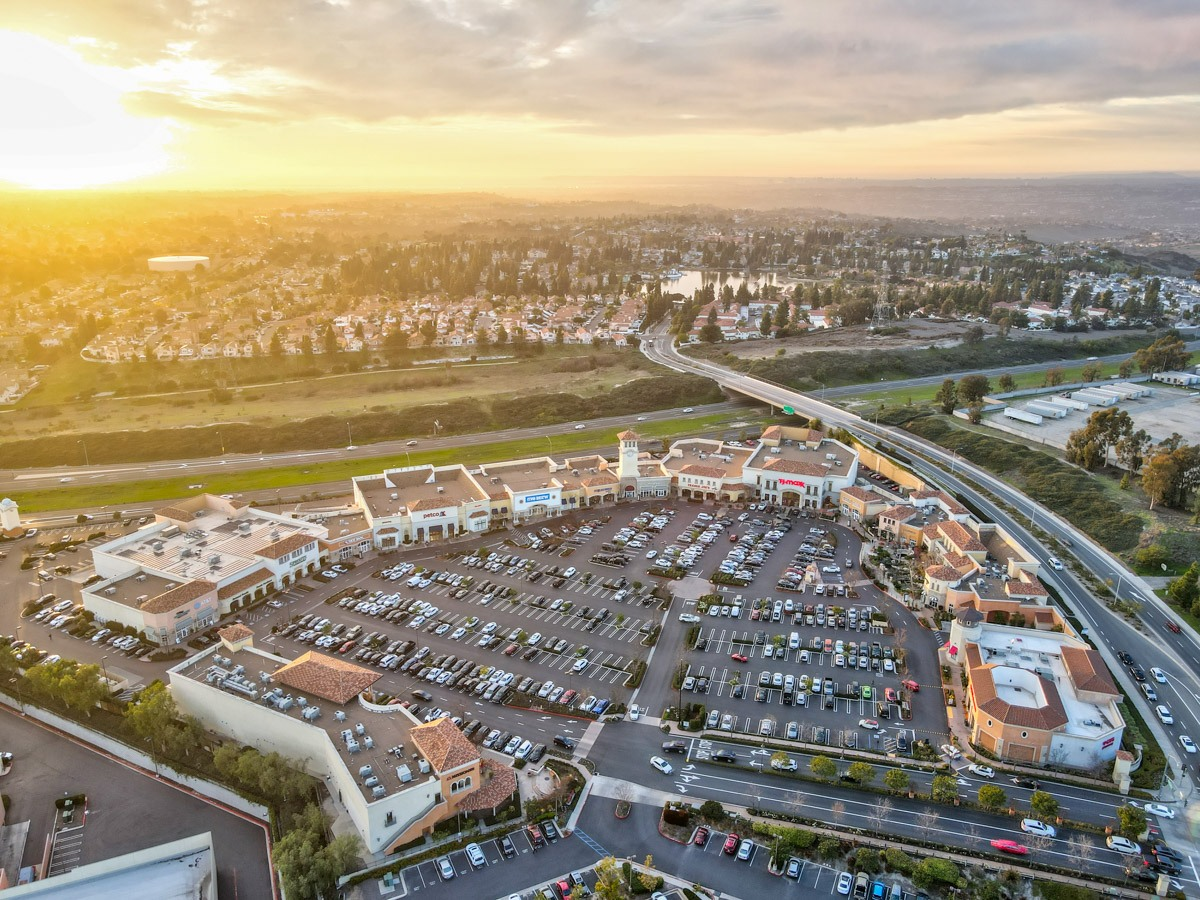
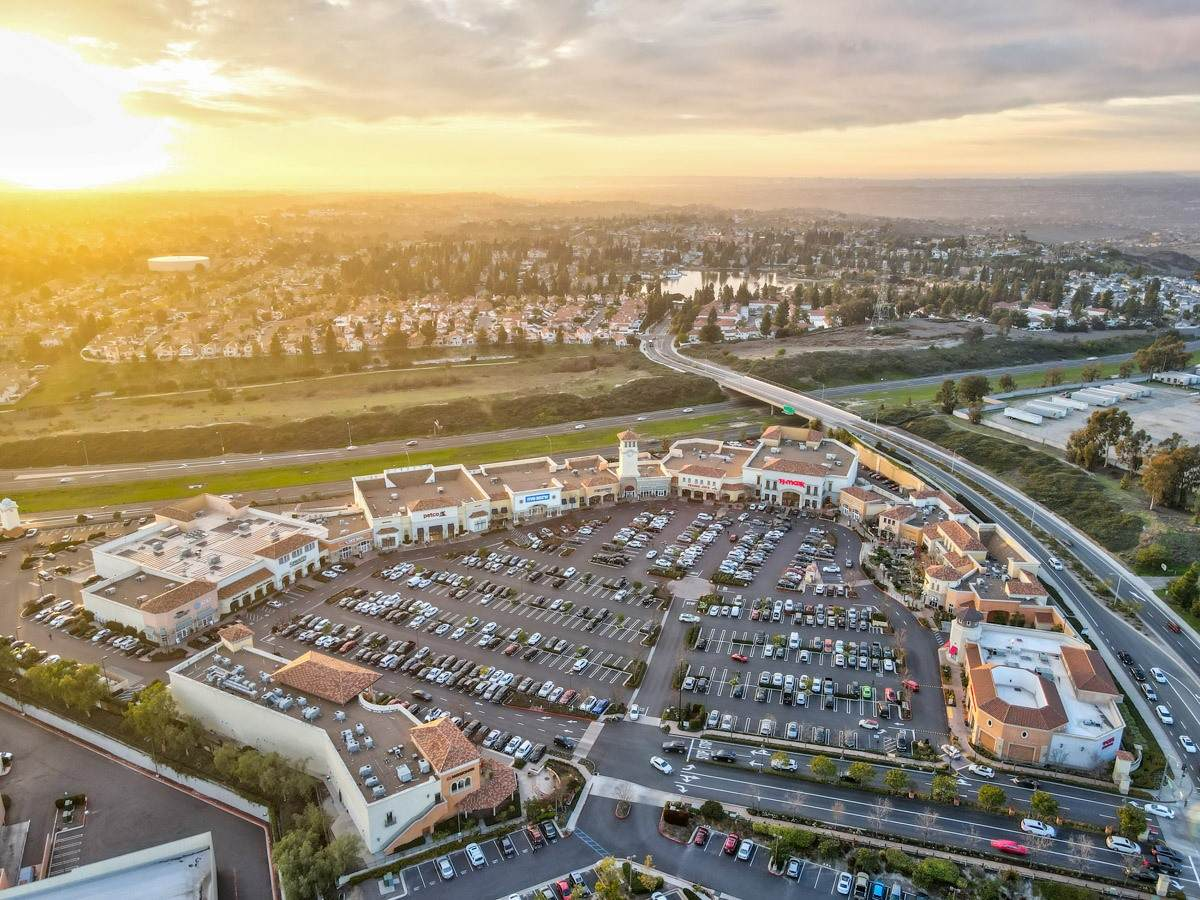
Ranker fixes: Home link in every footer, darker gold labels on light backgrounds, lighter step numbers, smaller Village Walk photo; CSS v=110

diff --git a/neighborhoods.html b/neighborhoods.html
@@ -18,7 +18,7 @@
   <link rel="preload" as="style" href="https://fonts.googleapis.com/css2?family=Inter:wght@300;400;500;600;700&family=Playfair+Display:ital,wght@0,400;0,500;0,600;1,400;1,500&display=swap">
   <link href="https://fonts.googleapis.com/css2?family=Inter:wght@300;400;500;600;700&family=Playfair+Display:ital,wght@0,400;0,500;0,600;1,400;1,500&display=swap" rel="stylesheet" media="print" onload="this.media='all'">
   <noscript><link href="https://fonts.googleapis.com/css2?family=Inter:wght@300;400;500;600;700&family=Playfair+Display:ital,wght@0,400;0,500;0,600;1,400;1,500&display=swap" rel="stylesheet"></noscript>
-  <link rel="stylesheet" href="/assets/css/styles.css?v=109">
+  <link rel="stylesheet" href="/assets/css/styles.css?v=110">
   <link rel="stylesheet" href="https://cdnjs.cloudflare.com/ajax/libs/leaflet/1.9.4/leaflet.min.css" media="print" onload="this.media='all'">
   <!-- Meta Pixel (dataset "Betty Torano Homes") and Google Analytics 4 (property "SellingEastlake.com").
        Both start recording right away; their scripts download after the page is up (first scroll/tap or 3.5 s after load). -->
@@ -691,6 +691,7 @@
       <div>
         <h3>Explore</h3>
         <ul>
+          <li><a href="/">Home</a></li>
           <li><a href="/buyers-guide">Buyer's Guide</a></li>
           <li><a href="/sellers-guide">Seller's Guide</a></li>
           <li><a href="/relocation-guide">Relocation Guide</a></li>

diff --git a/about.html b/about.html
@@ -18,7 +18,7 @@
   <link rel="preload" as="style" href="https://fonts.googleapis.com/css2?family=Inter:wght@300;400;500;600;700&family=Playfair+Display:ital,wght@0,400;0,500;0,600;1,400;1,500&display=swap">
   <link href="https://fonts.googleapis.com/css2?family=Inter:wght@300;400;500;600;700&family=Playfair+Display:ital,wght@0,400;0,500;0,600;1,400;1,500&display=swap" rel="stylesheet" media="print" onload="this.media='all'">
   <noscript><link href="https://fonts.googleapis.com/css2?family=Inter:wght@300;400;500;600;700&family=Playfair+Display:ital,wght@0,400;0,500;0,600;1,400;1,500&display=swap" rel="stylesheet"></noscript>
-  <link rel="stylesheet" href="/assets/css/styles.css?v=109">
+  <link rel="stylesheet" href="/assets/css/styles.css?v=110">
   <!-- Meta Pixel (dataset "Betty Torano Homes") and Google Analytics 4 (property "SellingEastlake.com").
        Both start recording right away; their scripts download after the page is up (first scroll/tap or 3.5 s after load). -->
   <script>
@@ -475,6 +475,7 @@
       <div>
         <h3>Explore</h3>
         <ul>
+          <li><a href="/">Home</a></li>
           <li><a href="/buyers-guide">Buyer's Guide</a></li>
           <li><a href="/sellers-guide">Seller's Guide</a></li>
           <li><a href="/relocation-guide">Relocation Guide</a></li>

diff --git a/blog.html b/blog.html
@@ -18,7 +18,7 @@
   <link rel="preload" as="style" href="https://fonts.googleapis.com/css2?family=Inter:wght@300;400;500;600;700&family=Playfair+Display:ital,wght@0,400;0,500;0,600;1,400;1,500&display=swap">
   <link href="https://fonts.googleapis.com/css2?family=Inter:wght@300;400;500;600;700&family=Playfair+Display:ital,wght@0,400;0,500;0,600;1,400;1,500&display=swap" rel="stylesheet" media="print" onload="this.media='all'">
   <noscript><link href="https://fonts.googleapis.com/css2?family=Inter:wght@300;400;500;600;700&family=Playfair+Display:ital,wght@0,400;0,500;0,600;1,400;1,500&display=swap" rel="stylesheet"></noscript>
-  <link rel="stylesheet" href="/assets/css/styles.css?v=109">
+  <link rel="stylesheet" href="/assets/css/styles.css?v=110">
   <!-- Meta Pixel (dataset "Betty Torano Homes") and Google Analytics 4 (property "SellingEastlake.com").
        Both start recording right away; their scripts download after the page is up (first scroll/tap or 3.5 s after load). -->
   <script>
@@ -392,6 +392,7 @@
       <div>
         <h3>Explore</h3>
         <ul>
+          <li><a href="/">Home</a></li>
           <li><a href="/buyers-guide">Buyer's Guide</a></li>
           <li><a href="/sellers-guide">Seller's Guide</a></li>
           <li><a href="/relocation-guide">Relocation Guide</a></li>

diff --git a/blog/camping-out-for-eastlake-homes.html b/blog/camping-out-for-eastlake-homes.html
@@ -18,7 +18,7 @@
   <link rel="preload" as="style" href="https://fonts.googleapis.com/css2?family=Inter:wght@300;400;500;600;700&family=Playfair+Display:ital,wght@0,400;0,500;0,600;1,400;1,500&display=swap">
   <link href="https://fonts.googleapis.com/css2?family=Inter:wght@300;400;500;600;700&family=Playfair+Display:ital,wght@0,400;0,500;0,600;1,400;1,500&display=swap" rel="stylesheet" media="print" onload="this.media='all'">
   <noscript><link href="https://fonts.googleapis.com/css2?family=Inter:wght@300;400;500;600;700&family=Playfair+Display:ital,wght@0,400;0,500;0,600;1,400;1,500&display=swap" rel="stylesheet"></noscript>
-  <link rel="stylesheet" href="/assets/css/styles.css?v=109">
+  <link rel="stylesheet" href="/assets/css/styles.css?v=110">
   <!-- Meta Pixel (dataset "Betty Torano Homes") and Google Analytics 4 (property "SellingEastlake.com").
        Both start recording right away; their scripts download after the page is up (first scroll/tap or 3.5 s after load). -->
   <script>
@@ -342,6 +342,7 @@
       <div>
         <h3>Explore</h3>
         <ul>
+          <li><a href="/">Home</a></li>
           <li><a href="/buyers-guide">Buyer's Guide</a></li>
           <li><a href="/sellers-guide">Seller's Guide</a></li>
           <li><a href="/relocation-guide">Relocation Guide</a></li>

diff --git a/blog/eastlake-before-the-125-freeway.html b/blog/eastlake-before-the-125-freeway.html
@@ -18,7 +18,7 @@
   <link rel="preload" as="style" href="https://fonts.googleapis.com/css2?family=Inter:wght@300;400;500;600;700&family=Playfair+Display:ital,wght@0,400;0,500;0,600;1,400;1,500&display=swap">
   <link href="https://fonts.googleapis.com/css2?family=Inter:wght@300;400;500;600;700&family=Playfair+Display:ital,wght@0,400;0,500;0,600;1,400;1,500&display=swap" rel="stylesheet" media="print" onload="this.media='all'">
   <noscript><link href="https://fonts.googleapis.com/css2?family=Inter:wght@300;400;500;600;700&family=Playfair+Display:ital,wght@0,400;0,500;0,600;1,400;1,500&display=swap" rel="stylesheet"></noscript>
-  <link rel="stylesheet" href="/assets/css/styles.css?v=109">
+  <link rel="stylesheet" href="/assets/css/styles.css?v=110">
   <!-- Meta Pixel (dataset "Betty Torano Homes") and Google Analytics 4 (property "SellingEastlake.com").
        Both start recording right away; their scripts download after the page is up (first scroll/tap or 3.5 s after load). -->
   <script>
@@ -341,6 +341,7 @@
       <div>
         <h3>Explore</h3>
         <ul>
+          <li><a href="/">Home</a></li>
           <li><a href="/buyers-guide">Buyer's Guide</a></li>
           <li><a href="/sellers-guide">Seller's Guide</a></li>
           <li><a href="/relocation-guide">Relocation Guide</a></li>

diff --git a/blog/eastlake-hoas-and-amenities.html b/blog/eastlake-hoas-and-amenities.html
@@ -18,7 +18,7 @@
   <link rel="preload" as="style" href="https://fonts.googleapis.com/css2?family=Inter:wght@300;400;500;600;700&family=Playfair+Display:ital,wght@0,400;0,500;0,600;1,400;1,500&display=swap">
   <link href="https://fonts.googleapis.com/css2?family=Inter:wght@300;400;500;600;700&family=Playfair+Display:ital,wght@0,400;0,500;0,600;1,400;1,500&display=swap" rel="stylesheet" media="print" onload="this.media='all'">
   <noscript><link href="https://fonts.googleapis.com/css2?family=Inter:wght@300;400;500;600;700&family=Playfair+Display:ital,wght@0,400;0,500;0,600;1,400;1,500&display=swap" rel="stylesheet"></noscript>
-  <link rel="stylesheet" href="/assets/css/styles.css?v=109">
+  <link rel="stylesheet" href="/assets/css/styles.css?v=110">
   <!-- Meta Pixel (dataset "Betty Torano Homes") and Google Analytics 4 (property "SellingEastlake.com").
        Both start recording right away; their scripts download after the page is up (first scroll/tap or 3.5 s after load). -->
   <script>
@@ -413,6 +413,7 @@
       <div>
         <h3>Explore</h3>
         <ul>
+          <li><a href="/">Home</a></li>
           <li><a href="/buyers-guide">Buyer's Guide</a></li>
           <li><a href="/sellers-guide">Seller's Guide</a></li>
           <li><a href="/relocation-guide">Relocation Guide</a></li>

diff --git a/blog/eastlake-little-league-history.html b/blog/eastlake-little-league-history.html
@@ -18,7 +18,7 @@
   <link rel="preload" as="style" href="https://fonts.googleapis.com/css2?family=Inter:wght@300;400;500;600;700&family=Playfair+Display:ital,wght@0,400;0,500;0,600;1,400;1,500&display=swap">
   <link href="https://fonts.googleapis.com/css2?family=Inter:wght@300;400;500;600;700&family=Playfair+Display:ital,wght@0,400;0,500;0,600;1,400;1,500&display=swap" rel="stylesheet" media="print" onload="this.media='all'">
   <noscript><link href="https://fonts.googleapis.com/css2?family=Inter:wght@300;400;500;600;700&family=Playfair+Display:ital,wght@0,400;0,500;0,600;1,400;1,500&display=swap" rel="stylesheet"></noscript>
-  <link rel="stylesheet" href="/assets/css/styles.css?v=109">
+  <link rel="stylesheet" href="/assets/css/styles.css?v=110">
   <!-- Meta Pixel (dataset "Betty Torano Homes") and Google Analytics 4 (property "SellingEastlake.com").
        Both start recording right away; their scripts download after the page is up (first scroll/tap or 3.5 s after load). -->
   <script>
@@ -357,6 +357,7 @@
       <div>
         <h3>Explore</h3>
         <ul>
+          <li><a href="/">Home</a></li>
           <li><a href="/buyers-guide">Buyer's Guide</a></li>
           <li><a href="/sellers-guide">Seller's Guide</a></li>
           <li><a href="/relocation-guide">Relocation Guide</a></li>

diff --git a/blog/eastlake-neighborhoods-no-mello-roos.html b/blog/eastlake-neighborhoods-no-mello-roos.html
@@ -18,7 +18,7 @@
   <link rel="preload" as="style" href="https://fonts.googleapis.com/css2?family=Inter:wght@300;400;500;600;700&family=Playfair+Display:ital,wght@0,400;0,500;0,600;1,400;1,500&display=swap">
   <link href="https://fonts.googleapis.com/css2?family=Inter:wght@300;400;500;600;700&family=Playfair+Display:ital,wght@0,400;0,500;0,600;1,400;1,500&display=swap" rel="stylesheet" media="print" onload="this.media='all'">
   <noscript><link href="https://fonts.googleapis.com/css2?family=Inter:wght@300;400;500;600;700&family=Playfair+Display:ital,wght@0,400;0,500;0,600;1,400;1,500&display=swap" rel="stylesheet"></noscript>
-  <link rel="stylesheet" href="/assets/css/styles.css?v=109">
+  <link rel="stylesheet" href="/assets/css/styles.css?v=110">
   <!-- Meta Pixel (dataset "Betty Torano Homes") and Google Analytics 4 (property "SellingEastlake.com").
        Both start recording right away; their scripts download after the page is up (first scroll/tap or 3.5 s after load). -->
   <script>
@@ -372,6 +372,7 @@
       <div>
         <h3>Explore</h3>
         <ul>
+          <li><a href="/">Home</a></li>
           <li><a href="/buyers-guide">Buyer's Guide</a></li>
           <li><a href="/sellers-guide">Seller's Guide</a></li>
           <li><a href="/relocation-guide">Relocation Guide</a></li>

diff --git a/blog/eastlake-schools-history.html b/blog/eastlake-schools-history.html
@@ -18,7 +18,7 @@
   <link rel="preload" as="style" href="https://fonts.googleapis.com/css2?family=Inter:wght@300;400;500;600;700&family=Playfair+Display:ital,wght@0,400;0,500;0,600;1,400;1,500&display=swap">
   <link href="https://fonts.googleapis.com/css2?family=Inter:wght@300;400;500;600;700&family=Playfair+Display:ital,wght@0,400;0,500;0,600;1,400;1,500&display=swap" rel="stylesheet" media="print" onload="this.media='all'">
   <noscript><link href="https://fonts.googleapis.com/css2?family=Inter:wght@300;400;500;600;700&family=Playfair+Display:ital,wght@0,400;0,500;0,600;1,400;1,500&display=swap" rel="stylesheet"></noscript>
-  <link rel="stylesheet" href="/assets/css/styles.css?v=109">
+  <link rel="stylesheet" href="/assets/css/styles.css?v=110">
   <!-- Meta Pixel (dataset "Betty Torano Homes") and Google Analytics 4 (property "SellingEastlake.com").
        Both start recording right away; their scripts download after the page is up (first scroll/tap or 3.5 s after load). -->
   <script>
@@ -348,6 +348,7 @@
       <div>
         <h3>Explore</h3>
         <ul>
+          <li><a href="/">Home</a></li>
           <li><a href="/buyers-guide">Buyer's Guide</a></li>
           <li><a href="/sellers-guide">Seller's Guide</a></li>
           <li><a href="/relocation-guide">Relocation Guide</a></li>

diff --git a/blog/first-eastlake-home-132000.html b/blog/first-eastlake-home-132000.html
@@ -18,7 +18,7 @@
   <link rel="preload" as="style" href="https://fonts.googleapis.com/css2?family=Inter:wght@300;400;500;600;700&family=Playfair+Display:ital,wght@0,400;0,500;0,600;1,400;1,500&display=swap">
   <link href="https://fonts.googleapis.com/css2?family=Inter:wght@300;400;500;600;700&family=Playfair+Display:ital,wght@0,400;0,500;0,600;1,400;1,500&display=swap" rel="stylesheet" media="print" onload="this.media='all'">
   <noscript><link href="https://fonts.googleapis.com/css2?family=Inter:wght@300;400;500;600;700&family=Playfair+Display:ital,wght@0,400;0,500;0,600;1,400;1,500&display=swap" rel="stylesheet"></noscript>
-  <link rel="stylesheet" href="/assets/css/styles.css?v=109">
+  <link rel="stylesheet" href="/assets/css/styles.css?v=110">
   <!-- Meta Pixel (dataset "Betty Torano Homes") and Google Analytics 4 (property "SellingEastlake.com").
        Both start recording right away; their scripts download after the page is up (first scroll/tap or 3.5 s after load). -->
   <script>
@@ -341,6 +341,7 @@
       <div>
         <h3>Explore</h3>
         <ul>
+          <li><a href="/">Home</a></li>
           <li><a href="/buyers-guide">Buyer's Guide</a></li>
           <li><a href="/sellers-guide">Seller's Guide</a></li>
           <li><a href="/relocation-guide">Relocation Guide</a></li>

diff --git a/blog/hoa-fees-mello-roos-selling-eastlake.html b/blog/hoa-fees-mello-roos-selling-eastlake.html
@@ -18,7 +18,7 @@
   <link rel="preload" as="style" href="https://fonts.googleapis.com/css2?family=Inter:wght@300;400;500;600;700&family=Playfair+Display:ital,wght@0,400;0,500;0,600;1,400;1,500&display=swap">
   <link href="https://fonts.googleapis.com/css2?family=Inter:wght@300;400;500;600;700&family=Playfair+Display:ital,wght@0,400;0,500;0,600;1,400;1,500&display=swap" rel="stylesheet" media="print" onload="this.media='all'">
   <noscript><link href="https://fonts.googleapis.com/css2?family=Inter:wght@300;400;500;600;700&family=Playfair+Display:ital,wght@0,400;0,500;0,600;1,400;1,500&display=swap" rel="stylesheet"></noscript>
-  <link rel="stylesheet" href="/assets/css/styles.css?v=109">
+  <link rel="stylesheet" href="/assets/css/styles.css?v=110">
   <!-- Meta Pixel (dataset "Betty Torano Homes") and Google Analytics 4 (property "SellingEastlake.com").
        Both start recording right away; their scripts download after the page is up (first scroll/tap or 3.5 s after load). -->
   <script>
@@ -392,6 +392,7 @@
       <div>
         <h3>Explore</h3>
         <ul>
+          <li><a href="/">Home</a></li>
           <li><a href="/buyers-guide">Buyer's Guide</a></li>
           <li><a href="/sellers-guide">Seller's Guide</a></li>
           <li><a href="/relocation-guide">Relocation Guide</a></li>

diff --git a/blog/is-now-a-good-time-to-sell-chula-vista.html b/blog/is-now-a-good-time-to-sell-chula-vista.html
@@ -18,7 +18,7 @@
   <link rel="preload" as="style" href="https://fonts.googleapis.com/css2?family=Inter:wght@300;400;500;600;700&family=Playfair+Display:ital,wght@0,400;0,500;0,600;1,400;1,500&display=swap">
   <link href="https://fonts.googleapis.com/css2?family=Inter:wght@300;400;500;600;700&family=Playfair+Display:ital,wght@0,400;0,500;0,600;1,400;1,500&display=swap" rel="stylesheet" media="print" onload="this.media='all'">
   <noscript><link href="https://fonts.googleapis.com/css2?family=Inter:wght@300;400;500;600;700&family=Playfair+Display:ital,wght@0,400;0,500;0,600;1,400;1,500&display=swap" rel="stylesheet"></noscript>
-  <link rel="stylesheet" href="/assets/css/styles.css?v=109">
+  <link rel="stylesheet" href="/assets/css/styles.css?v=110">
   <!-- Meta Pixel (dataset "Betty Torano Homes") and Google Analytics 4 (property "SellingEastlake.com").
        Both start recording right away; their scripts download after the page is up (first scroll/tap or 3.5 s after load). -->
   <script>
@@ -359,6 +359,7 @@
       <div>
         <h3>Explore</h3>
         <ul>
+          <li><a href="/">Home</a></li>
           <li><a href="/buyers-guide">Buyer's Guide</a></li>
           <li><a href="/sellers-guide">Seller's Guide</a></li>
           <li><a href="/relocation-guide">Relocation Guide</a></li>
